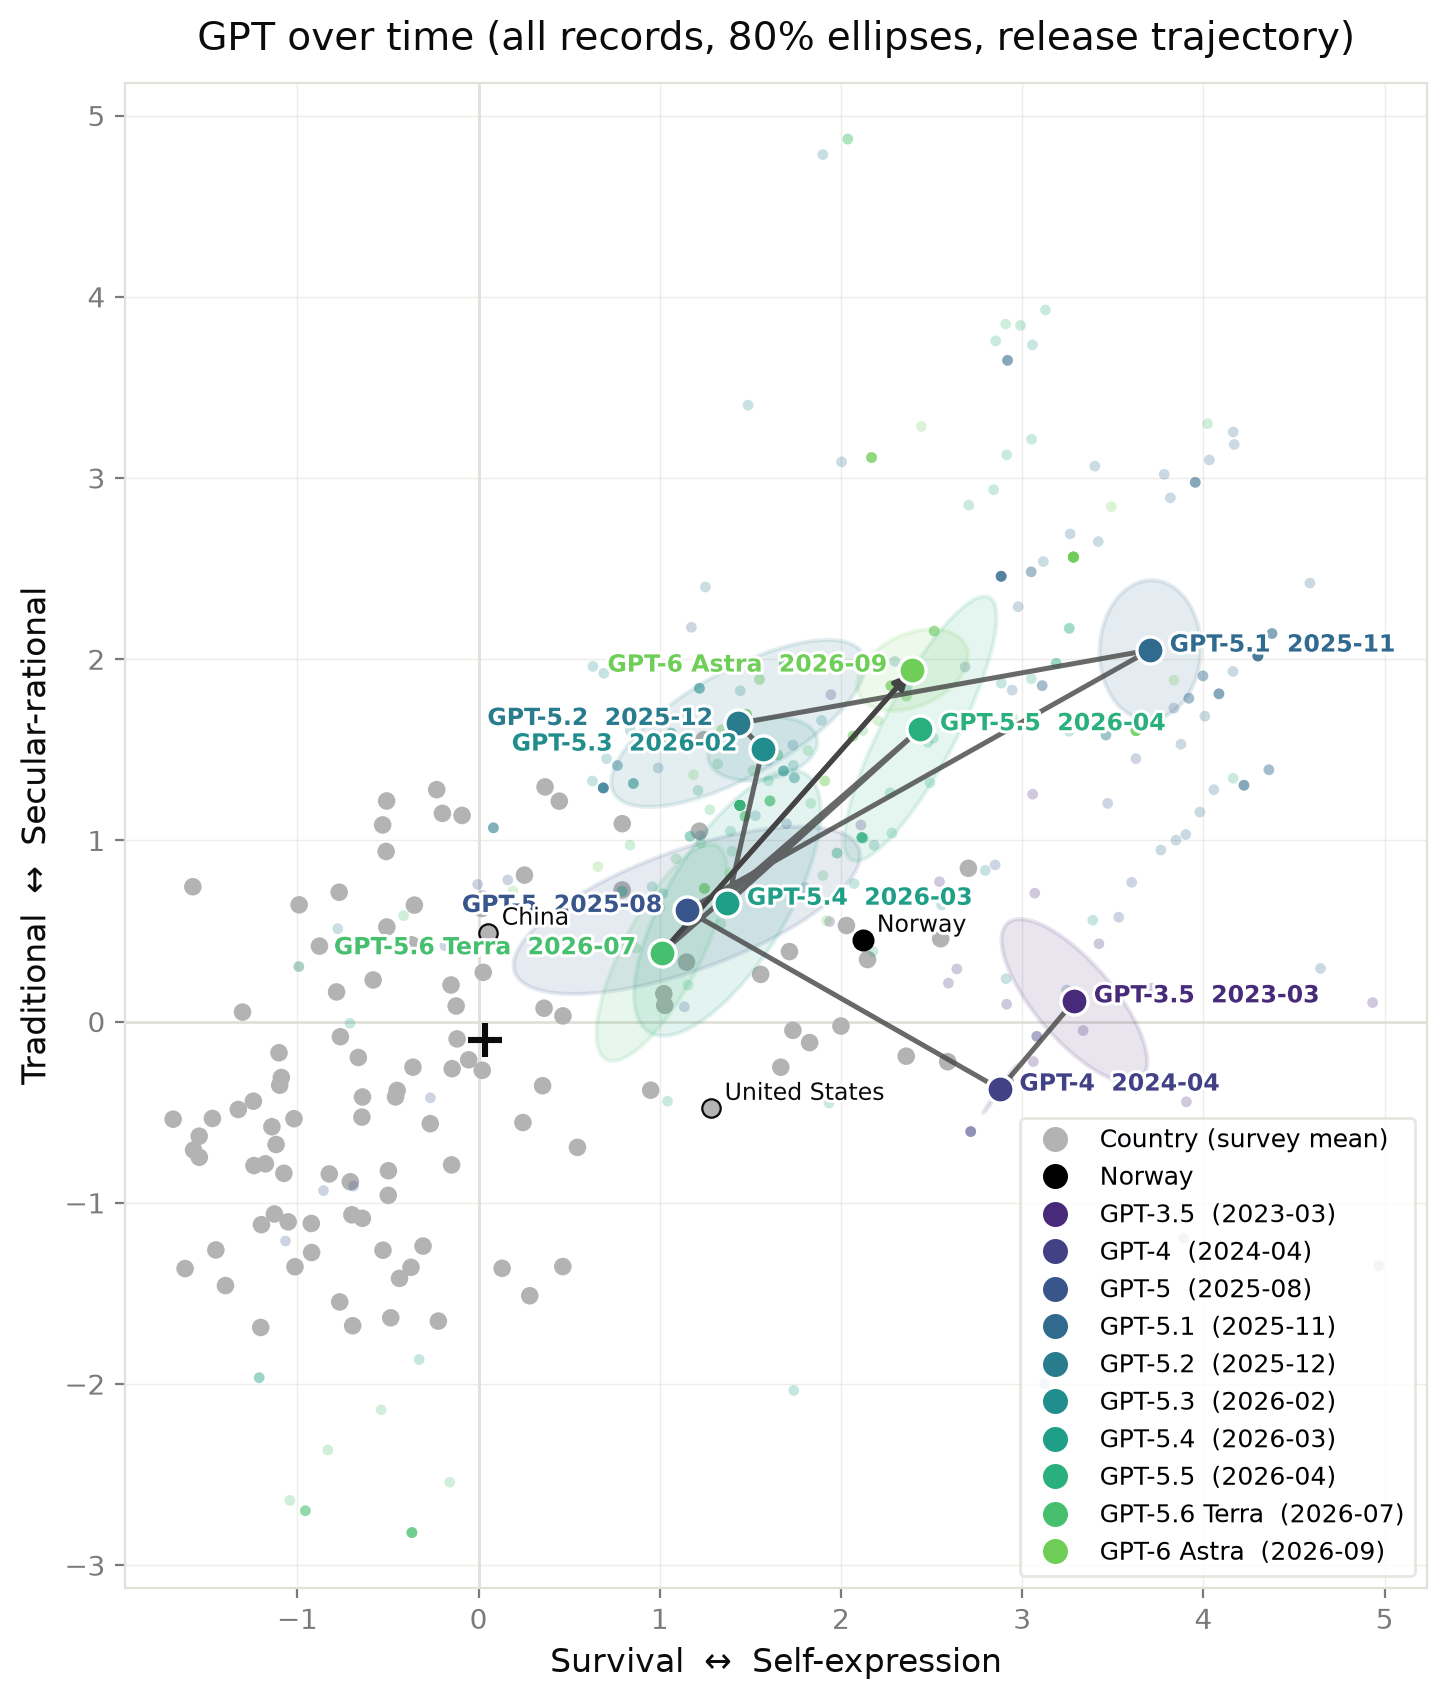
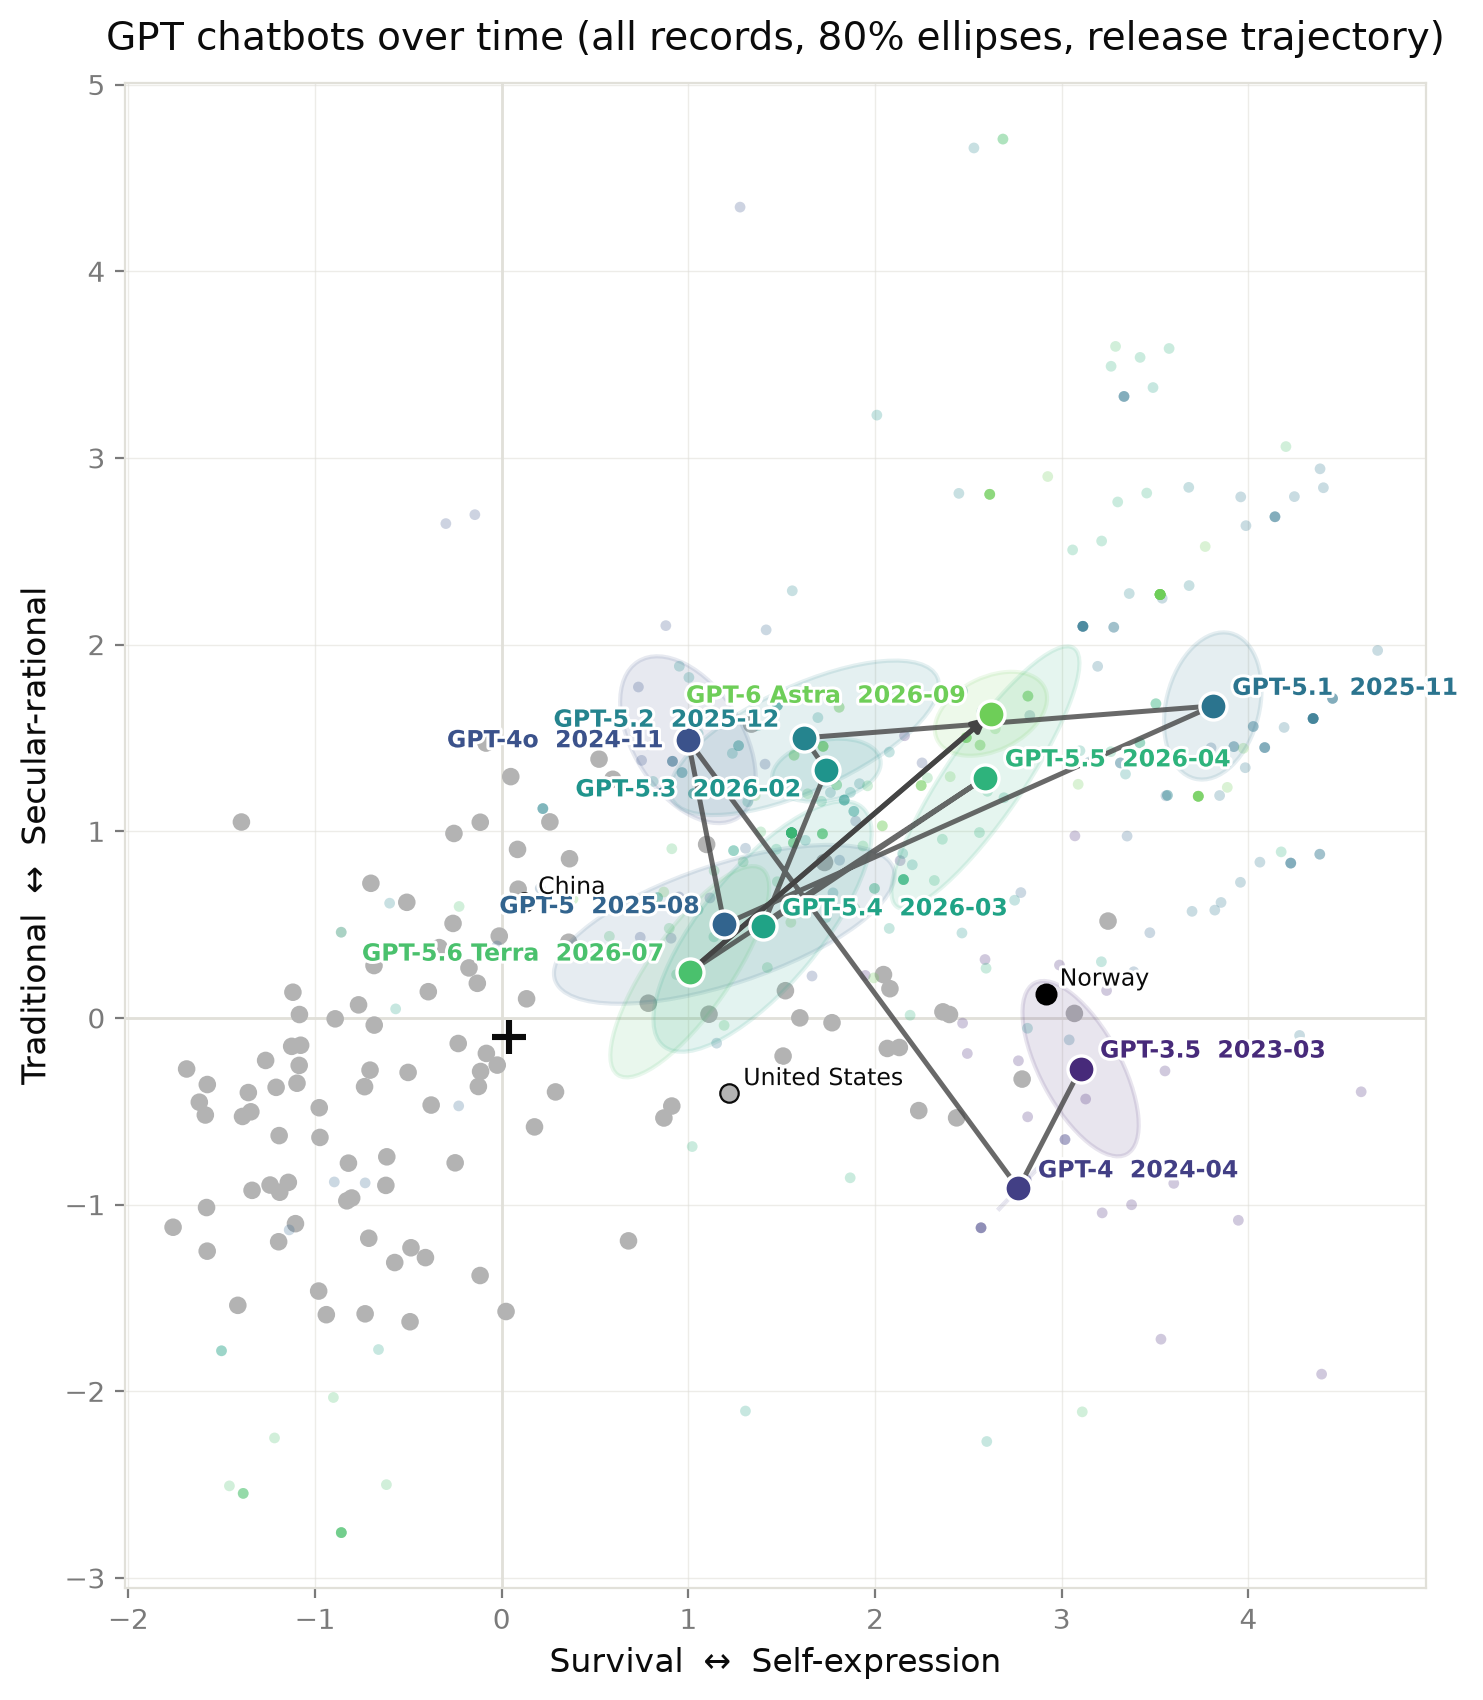
Update figures

diff --git a/figures/plot_llms_lineage.py b/figures/plot_llms_lineage.py
@@ -42,7 +42,11 @@ def main():
     p.add_argument('--label-left', nargs='*', default=[],
                    help="model labels whose on-plot text goes to the LEFT of the point")
     p.add_argument('--label-dy', type=float, default=0.0,
-                   help="vertical nudge for on-plot labels, in map units (negative = down)")
+                   help="vertical nudge for ALL on-plot labels, in map units (negative = down)")
+    p.add_argument('--label-dy-for', nargs='*', default=[],
+                   help="per-model vertical nudges as LABEL=DY (map units, negative = down); adds to --label-dy")
+    p.add_argument('--legend', action=argparse.BooleanOptionalAction, default=True,
+                   help="draw the legend (default on; use --no-legend to hide)")
     p.add_argument('--trajectory', action=argparse.BooleanOptionalAction, default=True,
                    help="draw the release-ordered trajectory line (default on)")
     p.add_argument('--first', action=argparse.BooleanOptionalAction, default=True,
@@ -53,6 +57,7 @@ def main():
                    help="per-model colour overrides as LABEL=HEX (e.g. 'GPT-5=#d62728')")
     args = p.parse_args()
     left_set = set(args.label_left)
+    dy_for = {k: float(v) for k, v in (pair.split('=', 1) for pair in args.label_dy_for)}
     slug = args.lineage.split()[-1].lower()
 
     exp = json.load(open(C.EXPERIMENTS_FILE))
@@ -106,14 +111,15 @@ def main():
             ax.scatter([r['x']], [r['y']], s=95, color=color[lab], edgecolors='white',
                        linewidths=1.2, zorder=7)
             left = lab in left_set
-            ax.annotate(f"{lab.replace('Claude ', '')}  {rel[lab][:7]}", (r['x'], r['y'] + args.label_dy),
+            ax.annotate(f"{lab.replace('Claude ', '')}  {rel[lab][:7]}",
+                        (r['x'], r['y'] + args.label_dy + dy_for.get(lab, 0.0)),
                         fontsize=8.5, fontweight='bold', color=color[lab], zorder=8,
                         xytext=(-7 if left else 7, 4), textcoords='offset points',
                         ha='right' if left else 'left',
                         path_effects=[pe.withStroke(linewidth=2.2, foreground='white')])
 
         base.draw_base_map(ax, extra_handles=handles, grey=True,
-                           label_countries=['United States', 'China'])
+                           label_countries=['United States', 'China'], legend=args.legend)
         ax.set_title(title, fontsize=14, color=base.INK, pad=12)
         fig.tight_layout()
         fig.savefig(FIG_DIR / out, dpi=200, facecolor=base.SURFACE, bbox_inches='tight')

diff --git a/figures/plot_cultural_map.py b/figures/plot_cultural_map.py
@@ -53,7 +53,7 @@ def _label(ax, text, x, y, left=False):
                 path_effects=[pe.withStroke(linewidth=2.2, foreground='white')])
 
 
-def draw_base_map(ax, extra_handles=None, labels=True, grey=False, label_countries=None):
+def draw_base_map(ax, extra_handles=None, labels=True, grey=False, label_countries=None, legend=True):
     """Draw the country cultural map on `ax` (dots, human-average marker, axes, legend).
 
     grey=False: colour countries by cultural group; with labels=True add the key-country
@@ -117,9 +117,10 @@ def draw_base_map(ax, extra_handles=None, labels=True, grey=False, label_countri
     ax.set_aspect('equal', 'box')
     ax.margins(0.04)
 
-    handles = base_handles + (extra_handles or [])
-    ax.legend(handles=handles, loc='lower right', fontsize=9, frameon=True, facecolor=SURFACE,
-              edgecolor=GRID, title=legend_title, title_fontsize=9.5)
+    if legend:
+        handles = base_handles + (extra_handles or [])
+        ax.legend(handles=handles, loc='lower right', fontsize=9, frameon=True, facecolor=SURFACE,
+                  edgecolor=GRID, title=legend_title, title_fontsize=9.5)
 
 
 def main():

diff --git a/README.md b/README.md
@@ -66,4 +66,6 @@ The 10 IVS variables (F063, Y003, F120, G006, E018, Y002, A008, F118, E025, A165
 
 ## Further information
 
-See [`paper.md`](./paper.md) for more on this project.
+[AIA HAb CeNc Hin R Claude Opus v1.0](https://aiattribution.github.io/statements/AIA-HAb-CeNc-Hin-R-?model=Claude%20Opus-v1.0)
+
+This work was created with an even blend of human and AI contributions. AI was used to make content edits, such as changes to scope, information, and ideas. AI was used to make new content, such as text, images, analysis, and ideas. AI was prompted for its contributions, or AI assistance was enabled. AI-generated content was reviewed and approved. The following model(s) or application(s) were used: Claude Opus.
